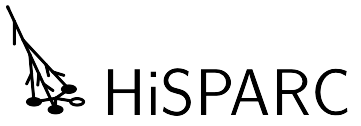
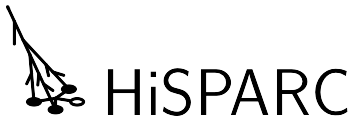
Add link to API docs on API interface page
And fix size of the 2x image

diff --git a/styles/api_interface.css b/styles/api_interface.css
@@ -38,6 +38,20 @@ body {
         background-size: 180px 63px;}
 }
 
+#doc_link {
+    width: 100%;
+    height: 16px;}
+
+#doc_link a {
+    font-size: 80%;
+    cursor: pointer;
+    color: #25B !important;
+    text-decoration: none;
+    font-weight: bold;
+    position: relative;
+    margin-right: 15px;
+    float: right;}
+
 #url, #result {display: none;}
 
 #result .string {color: green;}

diff --git a/api_interface.html b/api_interface.html
@@ -164,6 +164,9 @@
     <body>
     <div id="container">
         <div id="header"><div id="pageHeader"></div></div>
+        <div id="doc_link">
+            <a href="http://docs.hisparc.nl/publicdb/api_tutorial.html" target="jsparc_doc">➔ Documentation</a>
+        </div>
         <div id="api">
             <div id="api_url">
                 <h3>Choose API option</h3>
